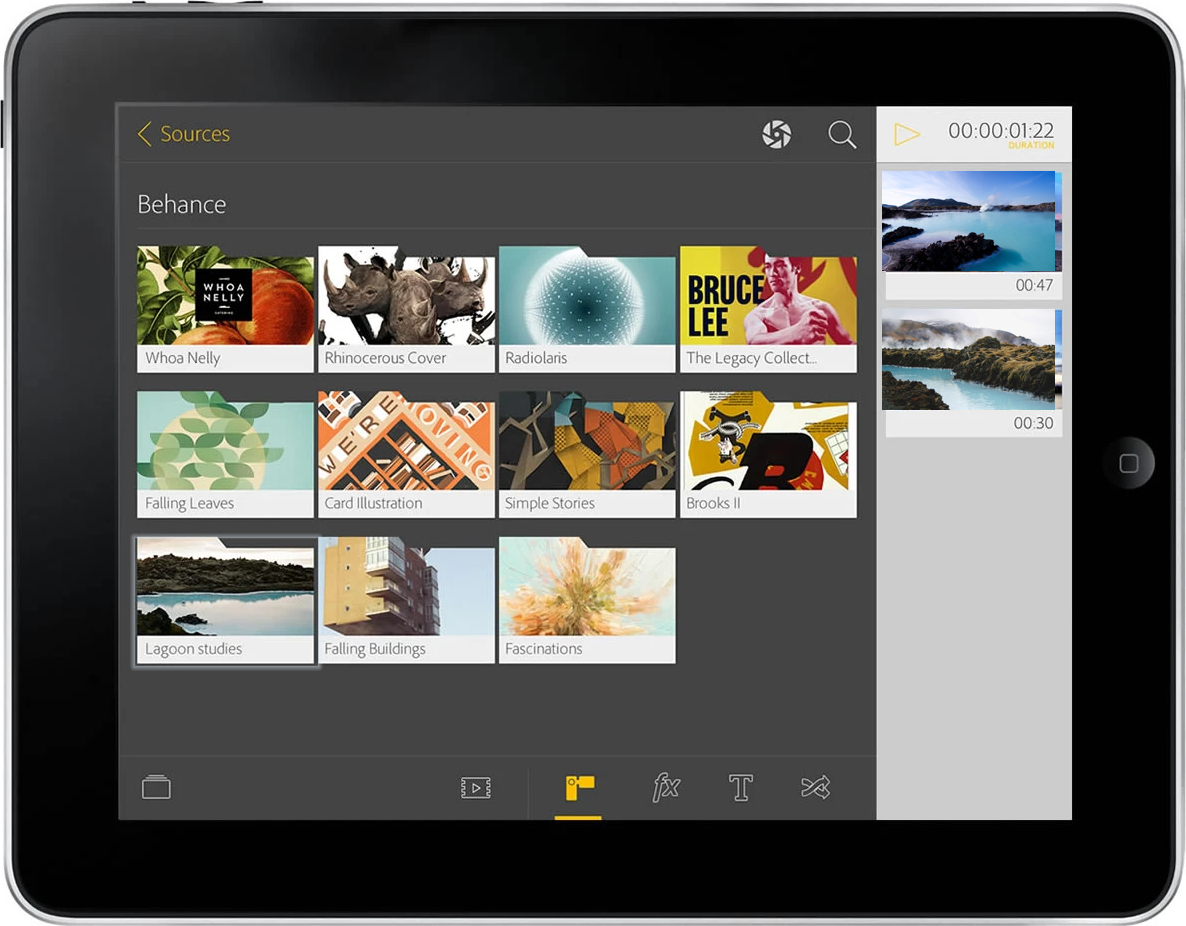
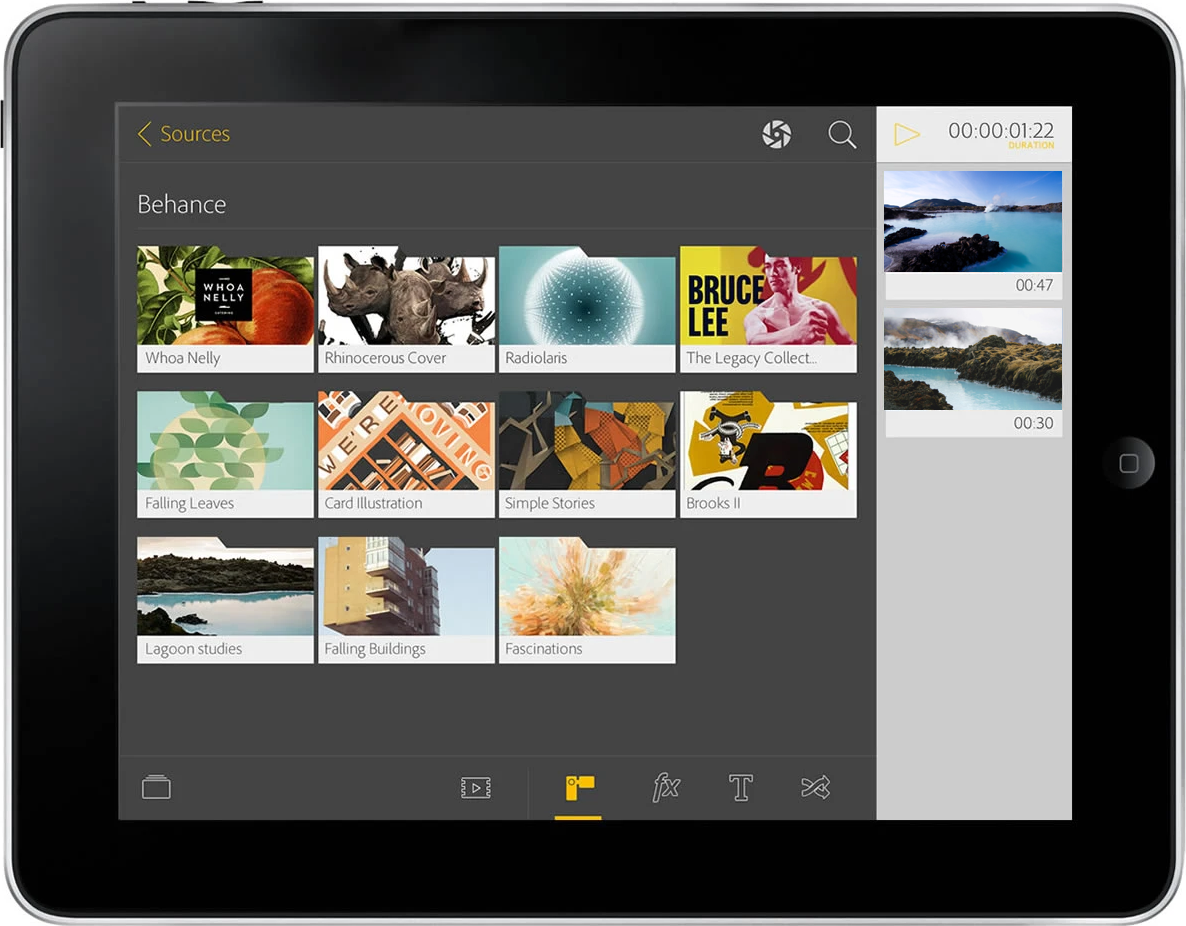
Adobe: align lagoon rail thumbnails to the exact photo cavities; remove the Lagoon studies folder highlight

Changed region(s): [[0.7487, 0.3326, 0.9047, 0.4536], [0.7175, 0.1814, 0.9047, 0.3024], [0.0936, 0.5745, 0.2808, 0.7257]]

diff --git a/adobe.html b/adobe.html
@@ -176,7 +176,7 @@
     </div>
   </div>
   <div class="dhero-r">
-    <div class="dvisual"><img src="assets/img/adobe-hero.png?v=3" alt="Adobe tablet app — the Sources view browsing Behance projects, with a clip timeline and duration on the right" /></div>
+    <div class="dvisual"><img src="assets/img/adobe-hero.png?v=4" alt="Adobe tablet app — the Sources view browsing Behance projects, with a clip timeline and duration on the right" /></div>
     <div class="sbands">
       <div class="sband"><span class="num">Touch</span><span class="desc">A timeline rebuilt for fingers, not a mouse</span></div>
       <div class="sband"><span class="num">Behance</span><span class="desc">Source footage and inspiration in a tap</span></div>

diff --git a/index.html b/index.html
@@ -361,7 +361,7 @@
           <div class="tags"><span class="tag">iPad</span><span class="tag">Video</span><span class="tag">UX/UI</span></div>
           <span class="case-link">Open case study ↗</span>
         </div>
-        <div class="visual glow"><img class="shot" src="assets/img/adobe-thumb.png?v=2" alt="Adobe tablet video-editing app on iPad" /></div>
+        <div class="visual glow"><img class="shot" src="assets/img/adobe-thumb.png?v=3" alt="Adobe tablet video-editing app on iPad" /></div>
       </a>
 
     </div>
